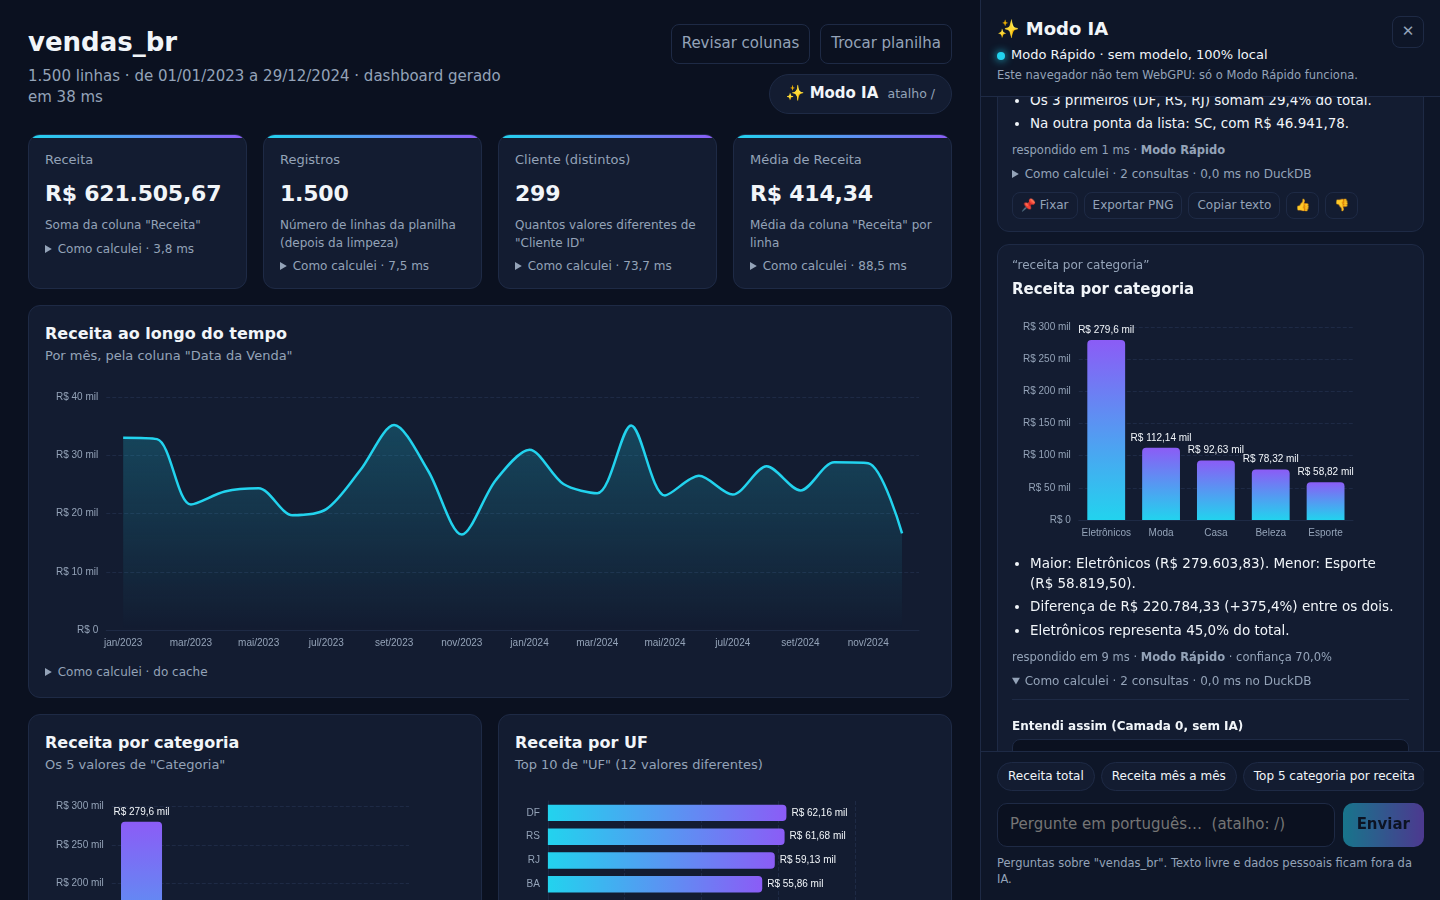
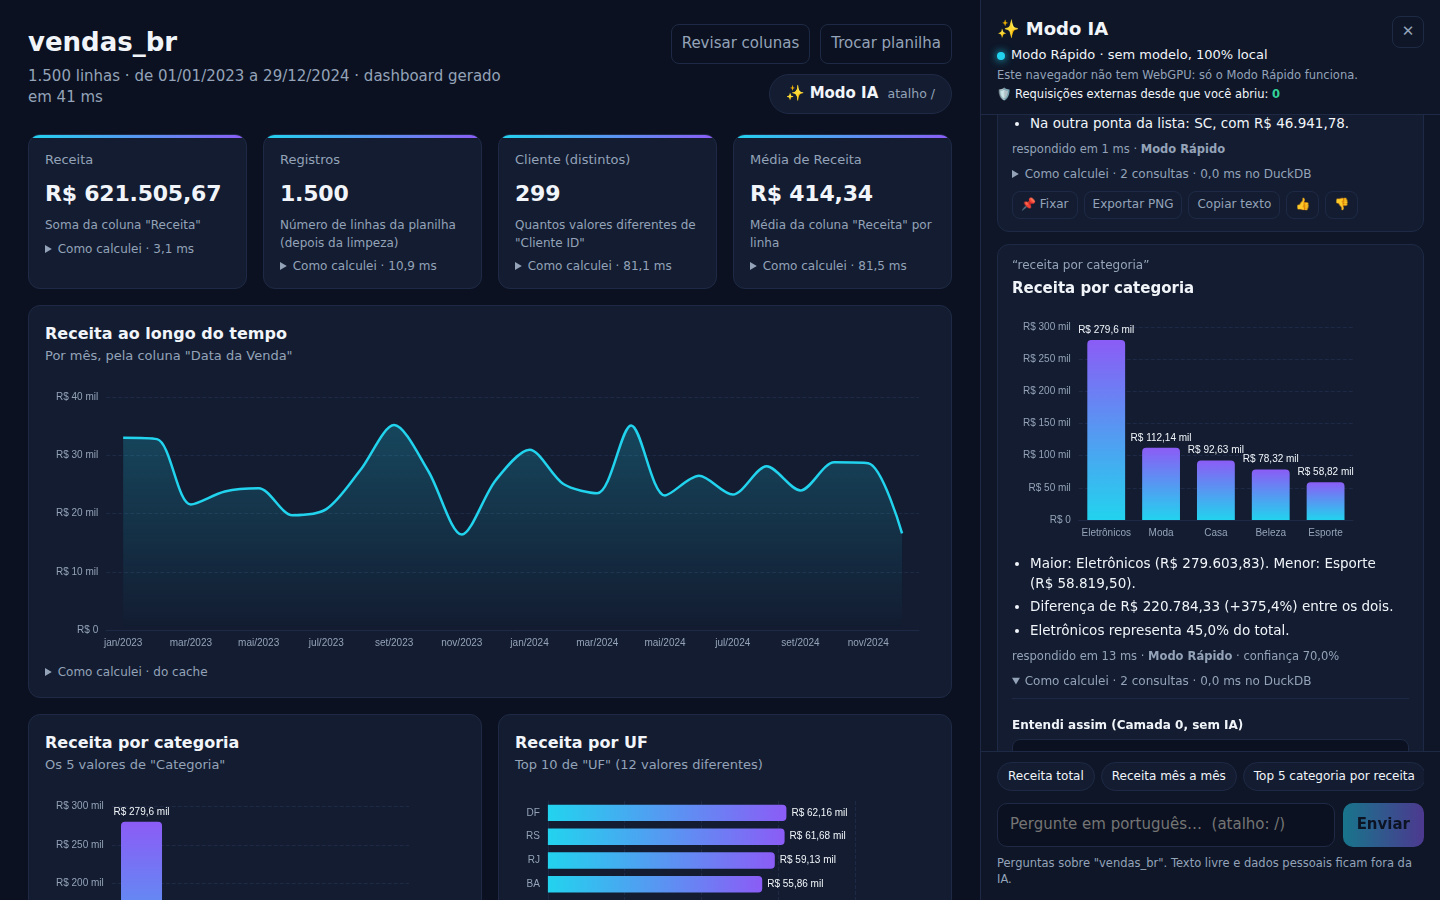
docs: PRIVACIDADE.md, decisões D48-D51, benchmark e prints da Fase 6
Claude-Session: https://claude.ai/code/session_016M3RKzUXaSBgNJ1yBuxHNZ

diff --git a/docs/PRIVACIDADE.md b/docs/PRIVACIDADE.md
@@ -1,0 +1,99 @@
+# Privacidade: as 4 perguntas, com evidência
+
+O post do LinkedIn que inspirou este projeto (dashboard de RH com "Modo IA" no navegador) recebeu 4 dúvidas nos
+comentários. Aqui estão as respostas deste app, cada uma com o teste automático ou o print que prova.
+
+Testes citados: `npm test` (Vitest) e `npx playwright test` (Chromium, build de produção). Prints em `docs/prints/`.
+
+---
+
+## a) O modelo pode inventar números ou explicações?
+
+**Números: não, por construção.** A IA nunca calcula nem escreve SQL (P1/P2):
+
+1. **Planejador:** a IA devolve só um "pedido de consulta" (QuerySpec) em JSON, preso a um JSON Schema com as
+   métricas e dimensões que existem. Depois, o Zod valida de novo e cada valor de filtro é conferido contra os
+   valores reais da base. JSON quebrado, métrica inventada ou valor que não existe viram **pergunta de volta**,
+   nunca consulta. Quem calcula é o DuckDB, com SQL gerado por um compilador determinístico.
+2. **Narrador:** a IA recebe só os FATOS (sem os valores) e escreve com marcadores `{{id}}`; o app troca pelos
+   números do DuckDB. O texto é **recusado** se tiver dígito fora de marcador, número por extenso, nome de mês ou
+   afirmação de causa fora do campo "Hipótese:". Recusado = fica o texto do template.
+3. **Validador numérico final:** todo número do texto precisa estar num fato.
+
+**Explicações:** "por que caiu?" mostra ONDE a variação aconteceu (decomposição por segmento), nunca a causa; a IA
+só pode sugerir causa marcada como "Hipótese:".
+
+| Evidência | Onde |
+|---|---|
+| Planejador errando (JSON quebrado, métrica inventada, valor inexistente) vira pergunta de volta, 0 SQL | `tests/unit/ia.test.ts`, `tests/e2e/ia-local.spec.ts` |
+| Narrador com número inventado, causa ou marcador falso é recusado | `tests/unit/ia.test.ts` ("narrador: validador"), print `docs/prints/fase4/5-narrador-rejeitado.png` |
+| Nenhum texto das 76 perguntas da suíte cita número fora dos fatos | `tests/unit/modo-rapido.test.ts` |
+| Totais batem com o Power BI no centavo; planilhas batem com o Python | `dados/validacao.md`, `tests/unit/universal.test.ts` |
+
+**Limite honesto:** a QUALIDADE do planejador com o modelo real (ele entende a pergunta certa?) ainda precisa ser
+medida no PC com GPU (D47). Se ele entender errado, a resposta é um número CERTO para a pergunta errada, e o bloco
+"Como calculei" mostra exatamente o que foi calculado.
+
+---
+
+## b) Existe tráfego de rede escondido (pesos em CDN, telemetria de libs)?
+
+**Não. Três barreiras, e um contador que mostra ao vivo:**
+
+1. **CSP no cabeçalho HTTP** (vale para a página E para os workers). Modo local: `connect-src 'self'` (nenhum
+   domínio externo). Modo demo: só `huggingface.co` e `*.hf.co`, os domínios dos pesos do modelo, **medidos**
+   (D46), e só usados se você clicar em "Ativar IA local".
+2. **Service Worker "firewall"** (`public/sw.js`): vê todas as requisições da página **e dos workers** (DuckDB e
+   IA), conta as externas e, no modo local, bloqueia. Ele assume a página ANTES de o DuckDB começar, então até o
+   worker da primeira visita nasce sob ele.
+3. **Nada de CDN em runtime:** DuckDB-WASM, extensão parquet, ECharts, SheetJS e a `model_lib` da IA são servidos
+   pelo próprio site, com SHA-256 fixado nos locks.
+
+**Contador:** "🛡 Requisições externas desde que você abriu: 0", no rodapé, no painel do Modo IA e na tela da
+planilha, com a lista de cada requisição (host, quem pediu, bloqueada ou não).
+
+| Evidência | Onde |
+|---|---|
+| Nenhuma violação de CSP e só o próprio site na rede (dashboard, Modo IA, IA com motor falso, planilhas) | `tests/e2e/seguranca.spec.ts`, `ia-local.spec.ts`, `universal.spec.ts` |
+| Firewall ativo desde a 1ª visita, contador 0, e requisições feitas **de dentro do worker do DuckDB** passando por ele | `tests/e2e/privacidade.spec.ts` (1º teste), print `docs/prints/fase6/1-selo-privacidade-contador-0.png` |
+| Com a CSP desligada de propósito, o Service Worker sozinho bloqueia `example.com/rastreador.js` e o contador marca "1 bloqueada" | `tests/e2e/privacidade.spec.ts` (2º teste), print `docs/prints/fase6/2-requisicao-bloqueada.png` |
+| Nenhuma lib de analytics/telemetria nas dependências (busca por Sentry, GA, Segment, PostHog, Mixpanel, Amplitude: 0) | varredura em `node_modules` (Fase 6) |
+| WebLLM só é baixado depois do clique em "Ativar IA local" | `tests/e2e/ia-local.spec.ts` ("sem clicar, nenhum byte do WebLLM") |
+
+---
+
+## c) O que fica salvo no navegador (cache dos pesos, IndexedDB)?
+
+Tudo fica **neste navegador, neste computador**. Nada vai para servidor nenhum.
+
+| Onde | O quê | Quando |
+|---|---|---|
+| Cache Storage (`olist-modo-ia-app-v1`) | código do app, DuckDB, dados da Olist, extensão parquet (~36 MB) | na 1ª visita (é o que faz funcionar offline) |
+| Cache Storage (do WebLLM) | pesos do modelo de IA (427 a 840 MB, conforme o modelo) | só se você ativar a IA |
+| localStorage (`olist-modo-ia:*`) | fixados, 👍/👎, textos da IA recusados pelo validador, "IA já ativada", modelos de planilha, preferência "lembrar planilha" | quando você usa cada função |
+| IndexedDB (`olist-modo-ia`) | bytes da última planilha | **só se você ligar** "Lembrar a última planilha" (desligado por padrão) |
+| OPFS | nada hoje | — |
+
+**Botão "Apagar dados locais"** (rodapé do dashboard e tela de entrada da planilha): apaga Cache Storage, IndexedDB, OPFS e
+localStorage/sessionStorage, e diz quanto apagou. O Service Worker continua registrado (a proteção não pode sumir).
+Evidência: `tests/e2e/privacidade.spec.ts` (4º teste), print `docs/prints/fase6/4-apagar-dados-locais.png`
+("Apagado: 35,6 MB em 1 cache · 1 banco IndexedDB · …").
+
+---
+
+## d) Quem controla o acesso aos dados, se a base vai junto com o HTML?
+
+- **Base da Olist (demo):** é pública (CC BY-NC-SA 4.0) e vai junto com o site de propósito. Quem abre o site pode
+  baixar o Parquet. Isso é aceitável porque os dados já são públicos. **Não publique uma base privada assim**: não
+  existe login nem controle de acesso num site estático.
+- **Sua planilha (Modo Universal):** é lida SÓ no seu navegador. Nada é enviado: não há servidor, e a rede está
+  travada (item b). Fechou a aba, ela some (a não ser que você ligue "Lembrar a última planilha").
+- **Dados pessoais na planilha:** CPF, e-mail, telefone e nome saem **mascarados já na tabela** ("***.***.***-12",
+  "a***@dominio", "Yasmin S."), ficam fora do catálogo da IA (ela nunca vê) e não podem virar métrica nem dimensão.
+- **Dados sensíveis (RH, saúde):** ligado por padrão quando a planilha tem dado pessoal ou salário: nenhum resultado
+  sobre **menos de 5 registros** aparece em gráfico, KPI ou resposta da IA, nem por filtro, e a tabela linha a linha
+  fica escondida. A regra está no compilador SQL, então vale para tudo.
+  Evidência: `tests/unit/universal.test.ts` ("dados sensíveis"), `tests/e2e/universal.spec.ts` (RH).
+
+**Limite honesto:** o app protege o que ELE mostra. Quem tem a planilha original já tem os dados; a proteção
+serve para compartilhar a tela ou o dashboard sem expor pessoas.

diff --git a/CLAUDE.md b/CLAUDE.md
@@ -34,7 +34,7 @@ Web app de portfólio do Harley (analista de dados júnior): dashboard da base O
 - CSVs da Olist em `./dados/` (manter fora do git). O `geolocation` não é usado e não foi copiado; o original está em `..\dashboard-vendas-olist\Dados\`.
 - Projeto Power BI de referência: `..\dashboard-vendas-olist\` (tema em `Imagens\tema_olist_dark.json`).
 - `gh` e `vercel` já estão autenticados. **Só crie repositório público ou faça deploy com autorização explícita** (Fase 8).
-- **Claude Code na nuvem:** o projeto fica na pasta `olist-modo-ia/` do repositório `harleylima12/Aurorapink` (branch `claude/gracious-carson-hgcwsu`). Os CSVs vêm de `python scripts/baixar_dados.py` (repositório oficial da Olist, commit fixo + SHA-256). Kaggle, Hugging Face e `extensions.duckdb.org` são bloqueados pela rede da nuvem; npm, PyPI e `raw.githubusercontent.com` funcionam. Sem GPU: a Fase 4 (WebGPU) precisa do PC.
+- **Claude Code na nuvem:** o projeto fica na pasta `olist-modo-ia/` do repositório `harleylima12/Aurorapink` (branch `claude/gracious-carson-hgcwsu`). Os CSVs vêm de `python scripts/baixar_dados.py` (repositório oficial da Olist, commit fixo + SHA-256). Kaggle continua bloqueado; npm, PyPI, `raw.githubusercontent.com`, Hugging Face, `extensions.duckdb.org` e `cdn.sheetjs.com` funcionam (os três últimos liberados pelo Harley em 26/09). Sem GPU: a Fase 4 (WebGPU) precisa do PC.
 
 ## Estado atual
 
@@ -43,7 +43,8 @@ Web app de portfólio do Harley (analista de dados júnior): dashboard da base O
 - **Fase 2 (base):** aprovada. Dashboard de 3 páginas, compilador spec→SQL, CSP.
 - **Fase 3 (Modo Rápido):** aprovada. Parser de tempo, Camada 0 (`src/router/layer0.ts`), insights e decomposição (`src/insights/`), seletor de gráfico, narrador por template + validador, painel "✨ Modo IA". Suíte `evals/perguntas.json` (76). Prints em `docs/prints/fase3/`.
 - **Fase 4 (IA local):** aprovada até onde deu sem GPU; **falta a validação no PC** (roteiro abaixo). Worker do WebLLM com import dinâmico (`src/ai/motorWebLLM.ts`, `engine.worker.ts`), escolha do modelo pela `prebuiltAppConfig` instalada (`modelos.ts`), planejador com JSON Schema (`planner.ts`, `prompts/planner.ts`), valores conferidos na base (`src/query/valueResolver.ts`), narrador com placeholders + validador (`narrator.ts`), motor falso (`motorFalso.ts`), `npm run baixar-modelo`. Decisões D28–D35. Testes: `npm test` (149), `npx playwright test` (22, com `PRINTS=1` grava prints), `python -m pytest tests/dados` (57). Prints em `docs/prints/fase4/`.
-- **Fase 5 (Modo Universal):** concluída na nuvem, aguardando o OK do Harley. Rota `/planilha`: leitura (`src/universal/leitor.ts`), limpeza, perfil das colunas (`perfil.ts`), semântica automática (`semanticaAuto.ts`), impressão digital e modelos (`impressao.ts`), vários arquivos (`relacoes.ts`, `montar.ts`), dashboard automático (`painelAuto.ts`) e telas em `src/ui/universal/`. Planilhas de teste em `evals/planilhas/` (`npm run gerar-planilhas-teste`). Decisões D36–D45. Testes: `npm test` (172), `npx playwright test` (24 + 3 pulados: prints com `PRINTS=1`, limite com `LIMITE=1`), `python -m pytest tests/dados` (57). **Excel pendente: SheetJS bloqueada na nuvem (D39), passo no roteiro abaixo.**
+- **Fase 5 (Modo Universal):** aprovada. Rota `/planilha`: leitura (`src/universal/leitor.ts`), limpeza, perfil das colunas (`perfil.ts`), semântica automática (`semanticaAuto.ts`), impressão digital e modelos (`impressao.ts`), vários arquivos (`relacoes.ts`, `montar.ts`), dashboard automático (`painelAuto.ts`) e telas em `src/ui/universal/`. Planilhas de teste em `evals/planilhas/` (`npm run gerar-planilhas-teste`). Decisões D36–D45. Testes: `npm test` (172), `npx playwright test` (24 + 3 pulados: prints com `PRINTS=1`, limite com `LIMITE=1`), `python -m pytest tests/dados` (57). Excel pela SheetJS 0.20.3 (tarball oficial em `vendor/`, D46).
+- **Fase 6 (Privacidade):** concluída na nuvem, aguardando o OK do Harley. Service Worker "firewall" (`public/sw.js`, `src/privacidade/firewall.ts`) com contador ao vivo e bloqueio no modo local, PWA offline, "Apagar dados locais" (`src/privacidade/apagar.ts`), tamanho mínimo de grupo para dados sensíveis (`min_group_size` no compilador), `docs/PRIVACIDADE.md`. Decisões D48–D51. Testes: `npm test` (174), `npx playwright test` (28 + 3 pulados: prints com `PRINTS=1`, limite com `LIMITE=1`), `python -m pytest tests/dados` (57). Prints em `docs/prints/fase6/`.
 - **Caminho de dados:** caminho FINAL ativo desde 26/09 (extensão parquet em `public/duckdb-extensions/`, SHA-256 no lock). O `.duckdb` provisório continua como plano B automático; decidir na Fase 6 se fica.
 - **Rede da nuvem:** o Harley liberou `cdn.sheetjs.com`, `extensions.duckdb.org`, `huggingface.co` e `*.hf.co`. O `curl` passa direto; o Node precisa de `NODE_USE_ENV_PROXY=1` nesta nuvem (no PC, não).
 - **Validar no PC do Harley (continua pendente):**
@@ -52,22 +53,8 @@ Web app de portfólio do Harley (analista de dados júnior): dashboard da base O
   3. `python scripts/preparar_dados.py` no Windows (caminho com acento e espaço).
   4. Conferir o frete total no card do Power BI (D16).
   5. IA na GPU (roteiro abaixo).
-- **Próximo passo:** validar a IA no PC (roteiro abaixo); depois, Fase 5 com o OK do Harley.
-
-## Roteiro: Excel no Modo Universal (Fase 5, SheetJS)
-
-A especificação manda instalar a SheetJS pelo tarball oficial (a do npm está desatualizada). No PC:
-
-1. Conferir a versão atual em https://cdn.sheetjs.com/ (a Fase 0 fixou 0.20.3) e baixar o tarball para `vendor/`:
-   `curl -o vendor/xlsx-0.20.3.tgz https://cdn.sheetjs.com/xlsx-0.20.3/xlsx-0.20.3.tgz`
-   (PowerShell: `Invoke-WebRequest -OutFile vendor/xlsx-0.20.3.tgz https://cdn.sheetjs.com/xlsx-0.20.3/xlsx-0.20.3.tgz`).
-2. Anotar o SHA-256 (`Get-FileHash vendor\xlsx-0.20.3.tgz` / `sha256sum`) no `docs/DECISOES.md` (D39) e instalar:
-   `npm install --save-exact file:vendor/xlsx-0.20.3.tgz`. Commitar `vendor/xlsx-0.20.3.tgz`, `package.json` e o lock.
-3. Conferir que a interface usada em `src/universal/excel.ts` (`read`, `utils.sheet_to_json` com `header: 1`,
-   `raw: false`, `defval`, `blankrows`, `dateNF`) bate com `node_modules/xlsx/types/index.d.ts`.
-4. `npm test` e `npx playwright test universal`: o teste "Excel sem SheetJS" vai falhar (agora a SheetJS existe):
-   trocar por um teste que solta `evals/planilhas/financeiro_titulo_total.xlsx` e confere aba "Dados", 60 linhas,
-   linha de total removida e receita total igual à do CSV (`esperado.json`).
+- **Próximo passo:** Fase 7 (avaliação e performance) com o OK do Harley; IA na GPU continua no roteiro abaixo.
+- **Decisão pendente do Harley:** manter o `.duckdb` provisório como plano B automático (recomendado: só é baixado se o caminho final falhar) ou tirar.
 
 ## Roteiro: validar a IA de verdade no PC (Fase 4)
 

diff --git a/docs/DECISOES.md b/docs/DECISOES.md
@@ -502,3 +502,40 @@ Formato: **contexto → decisão → alternativa descartada**. As decisões da F
   **só no PC, com GPU de verdade** (roteiro no CLAUDE.md).
 - **Ajuste que o teste mostrou:** o status dizia só "carregou em 19,6 s" e escondia o aquecimento; agora mostra
   os dois tempos.
+
+## Fase 6: Privacidade
+
+### D48. Service Worker "firewall" assume a página ANTES do DuckDB
+
+- **Contexto:** a especificação pede que o SW veja também as requisições dos workers ("confirme no Chrome que os
+  workers estão sob controle; se não estiverem, instrumente o fetch dentro deles"). Um worker só fica sob o SW se
+  nascer depois que o SW controla a página; na 1ª visita, o SW normal só assume depois do carregamento.
+- **Decisão:** `main.tsx` registra o SW e o motor de dados espera ele assumir (`clients.claim()`, no máximo 3 s)
+  antes de criar o worker do DuckDB. Conferido no Chromium: o SW vê requisições feitas **de dentro do worker**
+  (a extensão parquet é baixada pelo worker do DuckDB), então não foi preciso instrumentar o `fetch` dos workers.
+  O SW conta as externas, avisa as abas (contador ao vivo) e, no modo local, responde erro para qualquer uma.
+- **Custo medido:** a 1ª visita ficou mais lenta até o dashboard completo: 2,52–2,63 s (era 2,00 s). A primeira
+  pintura não mudou (0,23 s) e as visitas seguintes não esperam (1,96–2,13 s). Registrado no BENCHMARK.
+- **Descartado:** instrumentar o `fetch` dentro dos workers (o do DuckDB é de terceiros, e o SW já cobre) e
+  registrar o SW sem esperar (a 1ª visita ficaria fora do contador).
+- **Em `npm run dev` o SW fica desligado** (o HMR do Vite não combina com ele); o selo diz isso.
+
+### D49. Offline (PWA) sem duplicar os pesos do modelo
+
+- Manifesto + ícones (gerados do `icone.svg`). O SW guarda no Cache Storage o que o app usou: arquivos com hash
+  (`/assets/`) cache primeiro; o resto rede primeiro com cache se offline; toda rota usa o mesmo `index.html`.
+  `/models/` fica de fora: o WebLLM já guarda os pesos no cache dele (não guardar duas vezes 400-800 MB).
+- Evidência: `privacidade.spec.ts` recarrega a página offline e o faturamento continua R$ 13.494.400,74.
+
+### D50. Dados sensíveis: tamanho mínimo de grupo no compilador
+
+- **Decisão:** `dataset.min_group_size` na semântica; o compilador põe `HAVING COUNT(*) >= N` em toda agregação
+  (com ou sem dimensão). Vale para dashboard, Modo Rápido e IA ao mesmo tempo, e fecha o furo do filtro ("salário
+  médio de quem tem 3 horas extras" com 2 pessoas não volta nada). Ligado por padrão (N = 5) quando a planilha tem
+  dado pessoal ou coluna de salário/saúde; a tabela linha a linha fica escondida. A Olist não usa (dados públicos).
+- **Descartado:** esconder grupos só no gráfico (o KPI filtrado e a IA ainda mostrariam o número).
+
+### D51. "Apagar dados locais" diz o tamanho real
+
+- A estimativa do navegador (`navigator.storage.estimate()`) demora a atualizar e mostrava "0,0 MB liberados"
+  logo depois de apagar 35 MB. O relatório agora soma o `Content-Length` do que estava nos caches antes de apagar.

diff --git a/README.md b/README.md
@@ -16,8 +16,9 @@ Dashboard da base pública da Olist com **Modo IA 100% local** (WebLLM + DuckDB-
 | 2. Base | ✅ dashboard de 3 páginas, compilador spec→SQL, CSP; prints em [`docs/prints/fase2`](docs/prints/fase2) |
 | 3. Modo Rápido | ✅ perguntas em PT-BR respondidas sem IA em < 100 ms (p95); prints em [`docs/prints/fase3`](docs/prints/fase3) |
 | 4. IA local | ✅ na nuvem (sem GPU): planejador + narrador validados com motor falso; **modelo real a validar no PC**; prints em [`docs/prints/fase4`](docs/prints/fase4) |
-| 5. Modo Universal | ✅ arraste um CSV em `/planilha`: limpeza, perfil das colunas, tela "Entendi assim" e dashboard automático; Excel pendente (SheetJS); prints em [`docs/prints/fase5`](docs/prints/fase5) |
-| 6 a 8 | a fazer |
+| 5. Modo Universal | ✅ arraste um CSV em `/planilha`: limpeza, perfil das colunas, tela "Entendi assim" e dashboard automático; Excel via SheetJS; prints em [`docs/prints/fase5`](docs/prints/fase5) |
+| 6. Privacidade | ✅ firewall (Service Worker) com contador de requisições externas, offline, "Apagar dados locais", proteção de dados sensíveis; ver [`docs/PRIVACIDADE.md`](docs/PRIVACIDADE.md) |
+| 7 e 8 | a fazer |
 
 ## Fase 1: preparar os dados
 

diff --git a/docs/BENCHMARK.md b/docs/BENCHMARK.md
@@ -149,3 +149,19 @@ do clique em "Gerar dashboard" até o primeiro gráfico. Nuvem do Claude Code, C
 
 **Pacote:** o Modo Universal é carregado sob demanda (58,6 kB, 20,5 kB gzip); o pacote principal cresceu 2,6 kB
 em relação à Fase 4.
+
+## Fase 6: custo do firewall (Service Worker)
+
+`npx playwright test medicoes`, mesma máquina, caminho final (Parquet), mediana de 5 rodadas; com SW, duas execuções
+(a faixa mostra a variação entre elas):
+
+| Momento | 1ª visita (antes do SW) | 1ª visita (com SW) | Com cache (com SW) |
+|---|---:|---:|---:|
+| Primeira pintura | 0,23 s | 0,22–0,23 s | 0,19 s |
+| DuckDB pronto | 1,76 s | 2,23–2,34 s | 1,73–1,87 s |
+| KPIs e gráficos na tela | 2,00 s | **2,52–2,63 s** | 1,96–2,13 s |
+| Trocar filtro (mediana) | 174 ms | 182–201 ms | |
+
+- A 1ª visita paga ~0,5–0,6 s para o SW assumir antes do DuckDB (D48); a meta "primeira pintura < 2 s" continua
+  cumprida. Nas visitas seguintes o SW já está no controle e não há espera.
+- Cache do app guardado pelo SW para funcionar offline: 35,6 MB (medido pelo "Apagar dados locais").
